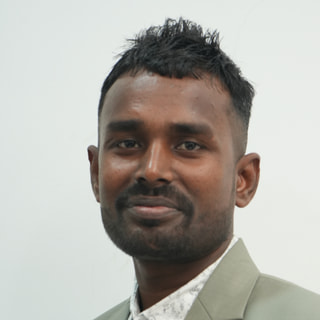
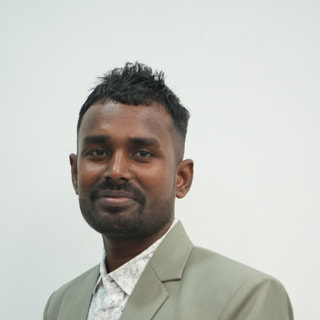
Match the three camera portraits to Love Sinha's scale, not the reverse
The previous fix cropped Love tighter to match the others, which cost him
resolution he cannot get back - his source is a 546px web image, not a camera
original. This inverts it: his crop returns to the full 546px width, and the
other three open out to meet him.

That costs them nothing. Their sources are 7008px, so a wider crop simply uses
more of the frame; all three still downscale to 960 from well above it.

Head height now runs 43-47% of the square across all four, against 40-63%
before, with the eye lines within six points of each other. The two studio
portraits sit at their loosest possible square - their subjects already fill a
4672px frame - which is what sets the 47% end of the range.

diff --git a/tools/build-leader-photos.js b/tools/build-leader-photos.js
@@ -26,31 +26,37 @@ fs.mkdirSync(outDir, { recursive: true });
 
 // side/left/top are fractions of the upright image; side is a fraction of its height,
 // except where the image is portrait, where it is a fraction of the width.
+// Love Sinha's source is a 546px web-sized image, not a camera original, so his
+// crop is fixed at the full width - anything tighter throws away resolution he
+// cannot get back. The other three are cropped out to match HIS scale instead
+// of the reverse: their sources are 7008px, so a wider crop uses more of the
+// frame and costs them nothing.
+//
+// The two studio portraits bottom out around 45% because their subjects already
+// fill a 4672px-wide frame; that is as loose as they go without padding.
 const PEOPLE = [
   {
     slug: 'ranjit-sinha', file: 'DSC05498.JPG',
-    // Wide office shot: he sits right of centre and small in frame.
-    side: 1500 / 4672, left: 3665 / 7008, top: 863 / 4672,
+    // Wide office shot, so there is room to open right out to 40%.
+    side: 1841 / 4672, left: 3495 / 7008, top: 635 / 4672,
     alt: 'Ranjit Sinha, Founder and CEO of Met-Test Laboratories',
   },
   {
     slug: 'laxman-prasad-singh', file: 'DSC05554.JPG',
-    side: 3364 / 4672, left: 187 / 4672, top: 855 / 7008,
+    // Full frame width: the loosest square this portrait allows.
+    side: 1, left: 0, top: 0,
     alt: 'Laxman Prasad Singh, Metallurgical Engineer at Met-Test Laboratories',
   },
   {
     slug: 'animesh-kumar', file: 'DSC05530.JPG',
-    side: 3364 / 4672, left: 93 / 4672, top: 715 / 7008,
+    side: 1, left: 0, top: 0,
     alt: 'Animesh Kumar, NDT Engineer at Met-Test Laboratories',
   },
   {
     slug: 'love-sinha', file: 'thumbnail.jpeg thumbnail (1).jpeg',
-    // Cropped to put his head at ~54% of the square, matching the other three
-    // (54-63%). Taking the full 546px width kept more pixels but left him
-    // visibly smaller than everyone else, which read as a mistake on the page.
-    // There is no camera original of him, so this trades resolution the source
-    // never really had for a card that matches its neighbours.
-    side: 405 / 546, left: 71 / 546, top: 410 / 1181,
+    // Full 546px width - every pixel the source has. Shifted down slightly so
+    // his headroom sits with the others rather than well above them.
+    side: 1, left: 0, top: 303 / 1181,
     alt: 'Love Sinha, IT Administrator at Met-Test Laboratories',
   },
 ];

diff --git a/public/about.html b/public/about.html
@@ -412,8 +412,8 @@ body{background:var(--bg);color:var(--fg);font-family:'Inter',system-ui,sans-ser
       <div class="leader-card">
         <div class="leader-photo">
           <picture class="leader-portrait">
-            <source type="image/webp" srcset="img/love-sinha-320.webp 320w, img/love-sinha-405.webp 405w" sizes="(max-width:520px) calc(100vw - 80px), (max-width:860px) calc(50vw - 58px), 280px">
-            <img src="img/love-sinha-405.jpg" srcset="img/love-sinha-320.jpg 320w, img/love-sinha-405.jpg 405w" sizes="(max-width:520px) calc(100vw - 80px), (max-width:860px) calc(50vw - 58px), 280px" width="405" height="405" alt="Love Sinha, IT Administrator at Met-Test Laboratories" loading="lazy" decoding="async">
+            <source type="image/webp" srcset="img/love-sinha-320.webp 320w, img/love-sinha-546.webp 546w" sizes="(max-width:520px) calc(100vw - 80px), (max-width:860px) calc(50vw - 58px), 280px">
+            <img src="img/love-sinha-546.jpg" srcset="img/love-sinha-320.jpg 320w, img/love-sinha-546.jpg 546w" sizes="(max-width:520px) calc(100vw - 80px), (max-width:860px) calc(50vw - 58px), 280px" width="546" height="546" alt="Love Sinha, IT Administrator at Met-Test Laboratories" loading="lazy" decoding="async">
           </picture>
           <div class="leader-photo-placeholder">
             <svg xmlns="http://www.w3.org/2000/svg" width="26" height="26" viewBox="0 0 24 24" fill="none" stroke="currentColor" stroke-width="1.5" stroke-linecap="round" stroke-linejoin="round"><path d="M20 21v-2a4 4 0 0 0-4-4H8a4 4 0 0 0-4 4v2"/><circle cx="12" cy="7" r="4"/></svg>
